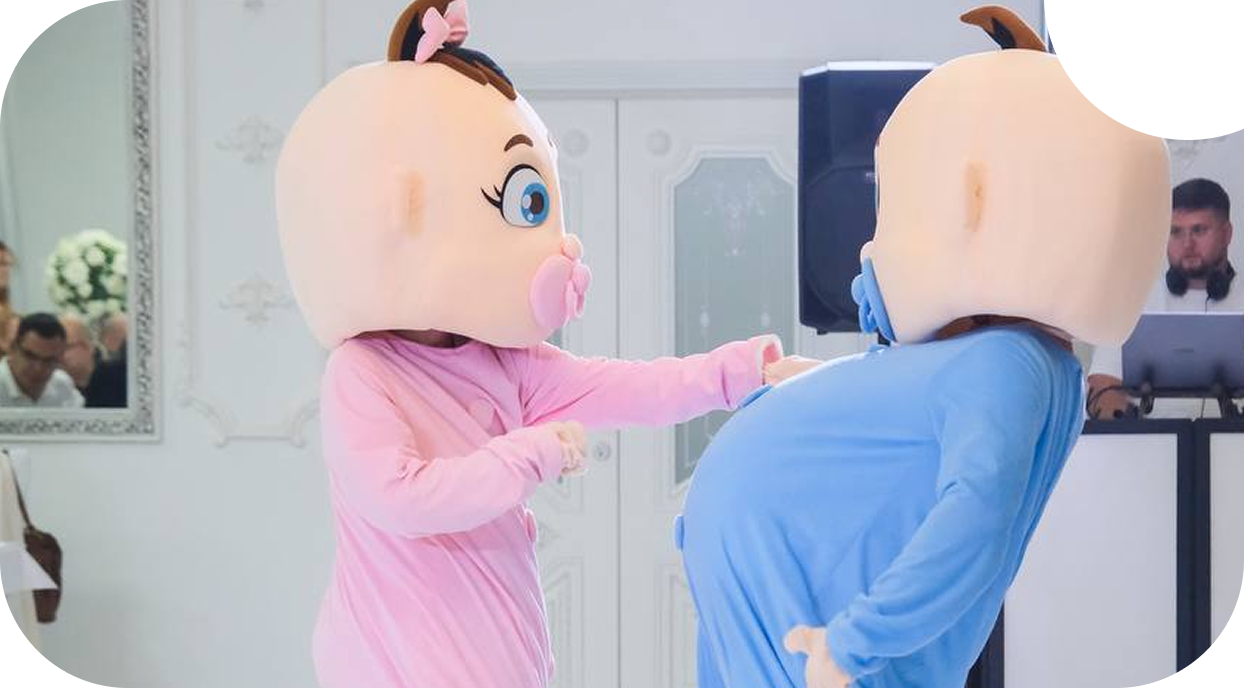
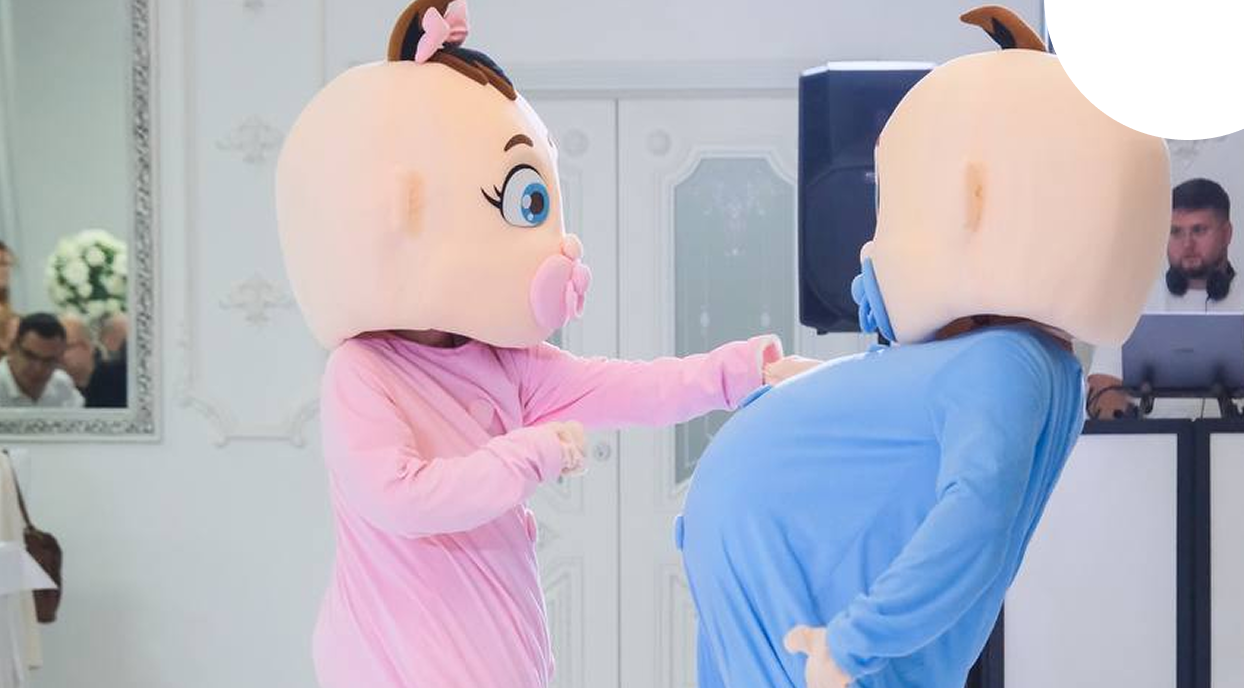
gghj

Changed region(s): [[0.9164, 0.8547, 1.0, 1.0], [0.0, 0.8547, 0.0916, 1.0], [0.0, 0.0, 0.0916, 0.1526]]

diff --git a/src/components/sections/ServicesSection/blurPhoto.vue b/src/components/sections/ServicesSection/blurPhoto.vue
@@ -1,15 +1,21 @@
 <template>
     <transition>
-        <div v-if="isClickOnDolls" class="absolute -inset-x-[0.3%] -inset-y-[0.5%]">
-            <svg width="100%" height="100%" viewBox="0 0 311 174" fill="none" xmlns="http://www.w3.org/2000/svg">
-                <foreignObject x="-11" y="-11" width="333" height="196"><div xmlns="http://www.w3.org/1999/xhtml" style="backdrop-filter:blur(5.5px);clip-path:url(#bgblur_0_1361_57_clip_path);height:100%;width:100%"></div></foreignObject><path data-figma-bg-blur-radius="11" d="M261 0C261 19.8822 277.118 36 297 36C301.966 36 306.696 34.9941 311 33.1758V142C311 159.673 296.673 174 279 174H32C14.3269 174 0 159.673 0 142V32C0 14.3269 14.3269 0 32 0H261Z" fill="#FFD4DF" fill-opacity="0.69"/>
-                <defs>
-                <clipPath id="bgblur_0_1361_57_clip_path" transform="translate(11 11)"><path d="M261 0C261 19.8822 277.118 36 297 36C301.966 36 306.696 34.9941 311 33.1758V142C311 159.673 296.673 174 279 174H32C14.3269 174 0 159.673 0 142V32C0 14.3269 14.3269 0 32 0H261Z"/>
-                </clipPath></defs>
+        <div v-if="isClickOnDolls" class="absolute -inset-[0.5%] ">
+            <svg @click="$emit('isClickOnBlur')" width="100%" height="100%" viewBox="0 0 311 172" fill="none" xmlns="http://www.w3.org/2000/svg">
+              <foreignObject x="-11" y="-11" width="333" height="194"><div xmlns="http://www.w3.org/1999/xhtml" style="backdrop-filter:blur(5.5px);clip-path:url(#bgblur_0_1361_57_clip_path);height:100%;width:100%"></div></foreignObject><path data-figma-bg-blur-radius="11" d="M261.015 0C261.544 19.4198 277.452 35 297 35C301.966 35 306.696 33.9941 311 32.1758V140C311 157.673 296.673 172 279 172H32C14.3269 172 0 157.673 0 140V32C2.70606e-06 14.3269 14.3269 0 32 0H261.015Z" fill="#FFD4DF" fill-opacity="0.69"/>
+              <defs>
+              <clipPath id="bgblur_0_1361_57_clip_path" transform="translate(11 11)"><path d="M261.015 0C261.544 19.4198 277.452 35 297 35C301.966 35 306.696 33.9941 311 32.1758V140C311 157.673 296.673 172 279 172H32C14.3269 172 0 157.673 0 140V32C2.70606e-06 14.3269 14.3269 0 32 0H261.015Z"/>
+              </clipPath></defs>
             </svg>
+
+            <div class="absolute w-max h-max m-auto inset-0 text-center">
+              <div>УСЛУГИ</div>
+              <div>ПЕРСОНАЖИ</div>
+              <div>ЗАКАЗАТЬ</div>
+            </div>
         </div>
     </transition>
-    
+
 </template>
 
 <script setup>
@@ -17,6 +23,7 @@ import { toRefs } from 'vue';
 
 const props = defineProps(['isClickOnDolls'])
 const {isClickOnDolls} = toRefs(props)
+
 </script>
 
 <style scoped>

diff --git a/src/components/sections/ServicesSection/typeServiceBlock.vue b/src/components/sections/ServicesSection/typeServiceBlock.vue
@@ -1,5 +1,5 @@
 <template>
-    <div @click="isClickOnDolls = true">
+    <div @click="swimBlur()">
         <div class="relative ">
             <svg viewBox="0 0 337 198" fill="none" xmlns="http://www.w3.org/2000/svg">
                 <path d="M276.052 0C275.935 0.331255 275.821 0.664375 275.714 1H42C19.3563 1 1 19.3563 1 42V156C1 178.644 19.3563 197 42 197H295C317.644 197 336 178.644 336 156V42C336 40.3718 335.901 38.7662 335.717 37.1875C336.018 36.8796 336.316 36.5676 336.606 36.249C336.864 38.1294 337 40.0489 337 42V156C337 178.834 318.779 197.411 296.084 197.986L295 198H42C19.1665 198 0.588625 179.779 0.0136719 157.084L0 156V42C0 18.804 18.804 3.2213e-08 42 0H276.052Z"
@@ -7,11 +7,14 @@
             </svg>
 
             <div class="absolute inset-x-[4%] inset-y-[6.5%]">
-                <img :src="serv_type_photo" alt="" class="w-full h-full">
-                <blurPhoto :isClickOnDolls="isClickOnDolls" />
+                <img :src="serv_type_photo" alt="" class="w-full h-full rounded-4xl min-[415px]:rounded-[36px]">
+                <blurPhoto
+                  :isClickOnDolls="isClickOnDolls"
+                  @isClickOnBlur="isClickOnBlur = true"
+                />
             </div>
 
-            <div class="absolute right-0 left-[83.7%] -top-[7.8%]">
+            <div @click="isClickOnArrow = true" class="absolute right-0 left-[83.7%] -top-[7.8%]">
                 <svg viewBox="0 0 66 66" fill="none" xmlns="http://www.w3.org/2000/svg">
                 <path d="M11.5454 8.32934C25.0083 -3.34946 45.5044 -1.78569 57.3233 11.8387C69.1422 25.4631 67.7961 45.9747 54.3333 57.6535C40.8704 69.3323 20.3743 67.7685 8.55536 54.1441C-3.26361 40.5197 -1.91753 20.0082 11.5454 8.32934Z"
                 :stroke="isOpenDolls ? '#397BD8' : '#C9185C'"/>
@@ -39,4 +42,21 @@ const props = defineProps(['serv_type_photo', 'title_type'])
 const {serv_type_photo, title_type} = toRefs(props)
 
 let isClickOnDolls = ref(false)
+let isClickOnBlur = ref(false)
+let isClickOnArrow = ref(false)
+
+function swimBlur() {
+  if (!isClickOnBlur.value) {
+    if (isClickOnArrow.value && isClickOnDolls.value) {
+      isClickOnDolls.value = false
+    } else {
+      isClickOnDolls.value = true
+    }
+  } else {
+    isClickOnDolls.value = false
+  }
+  isClickOnArrow.value = false
+  isClickOnBlur.value = false
+
+}
 </script>
